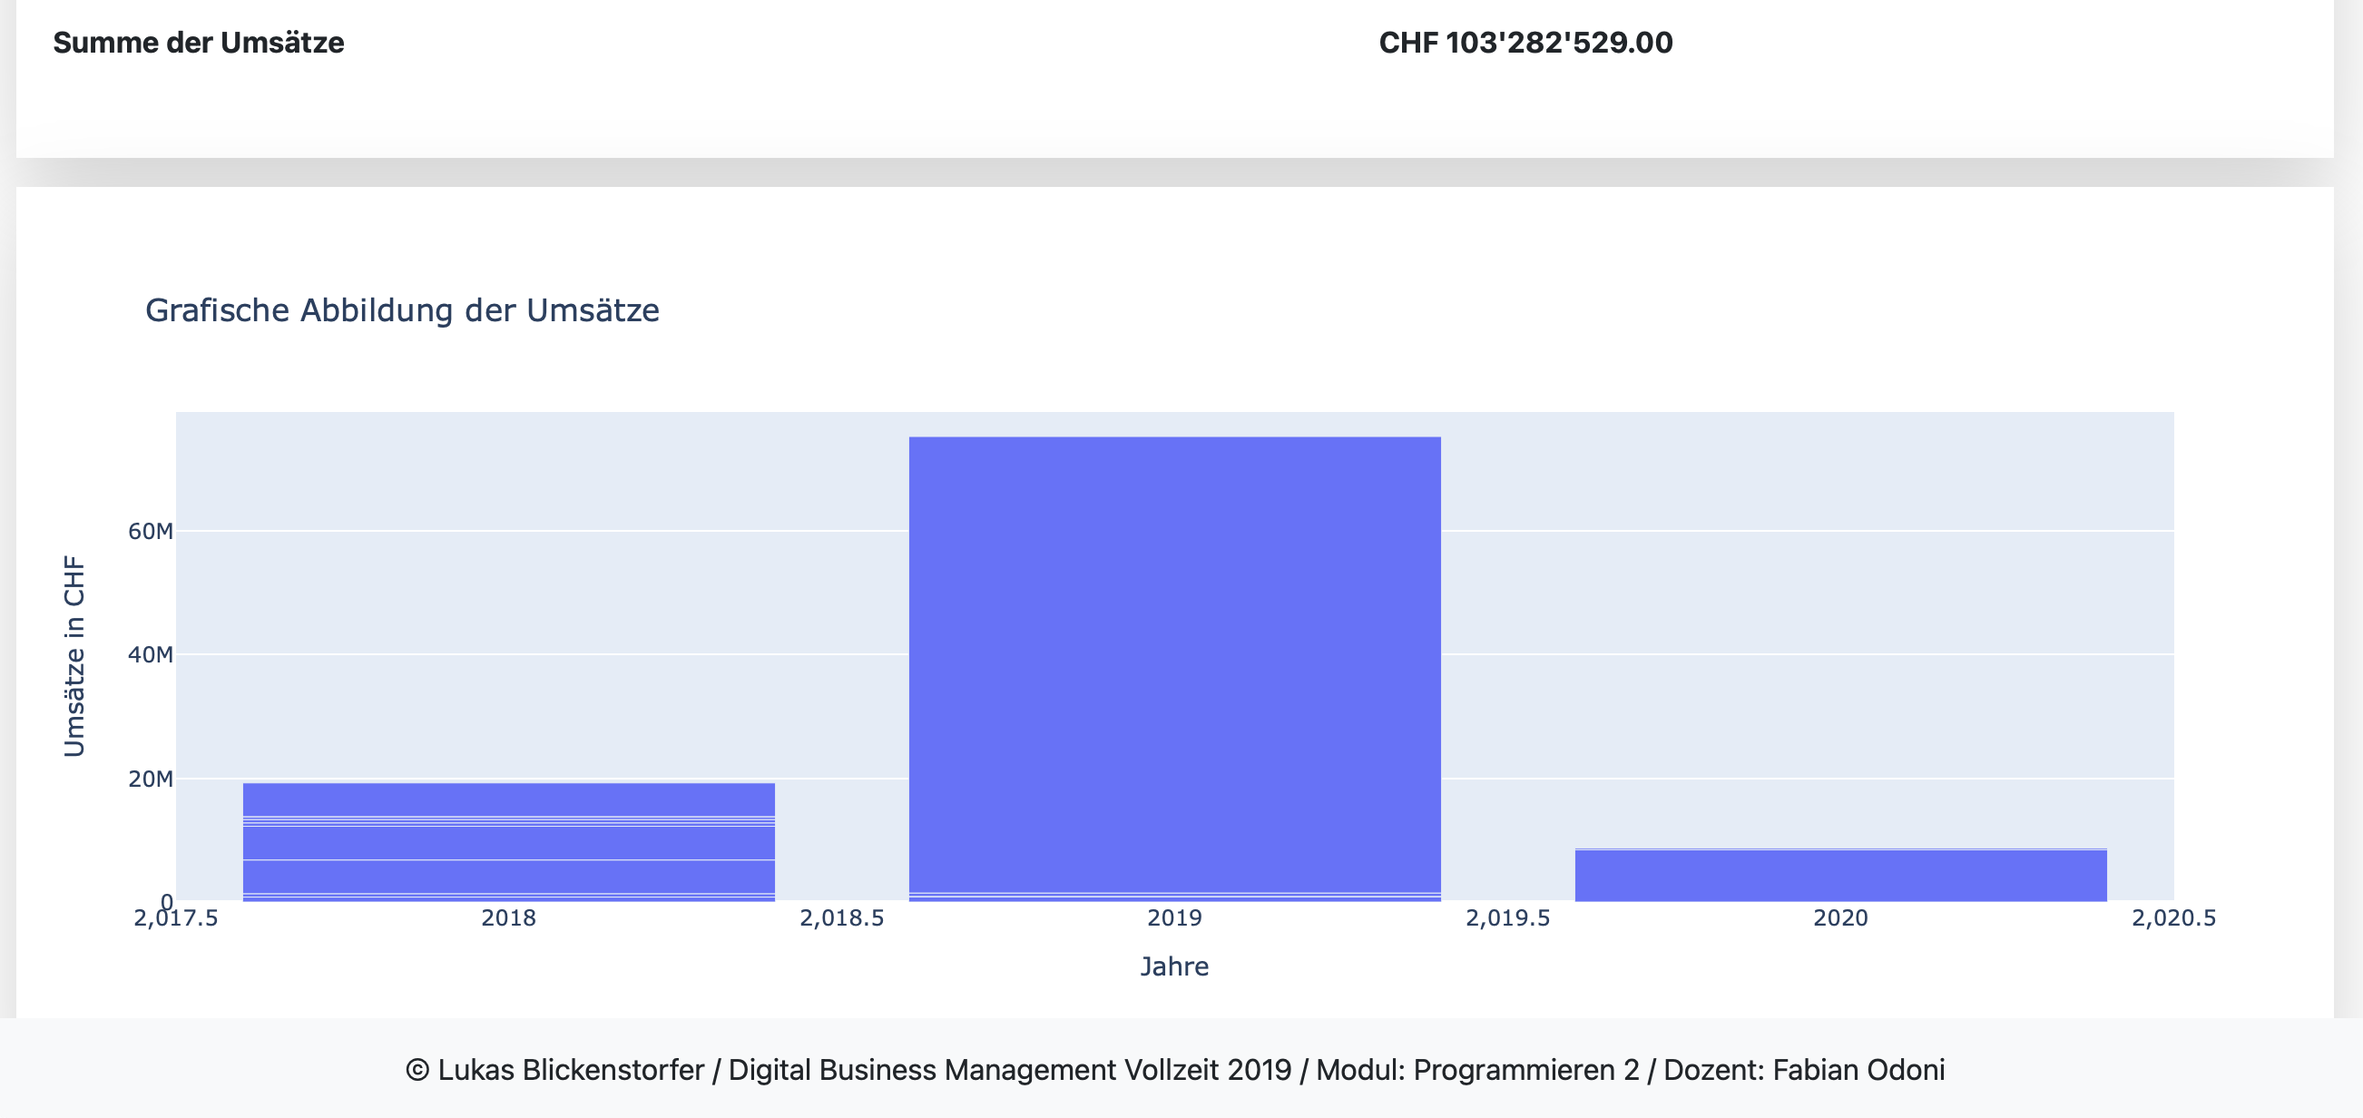
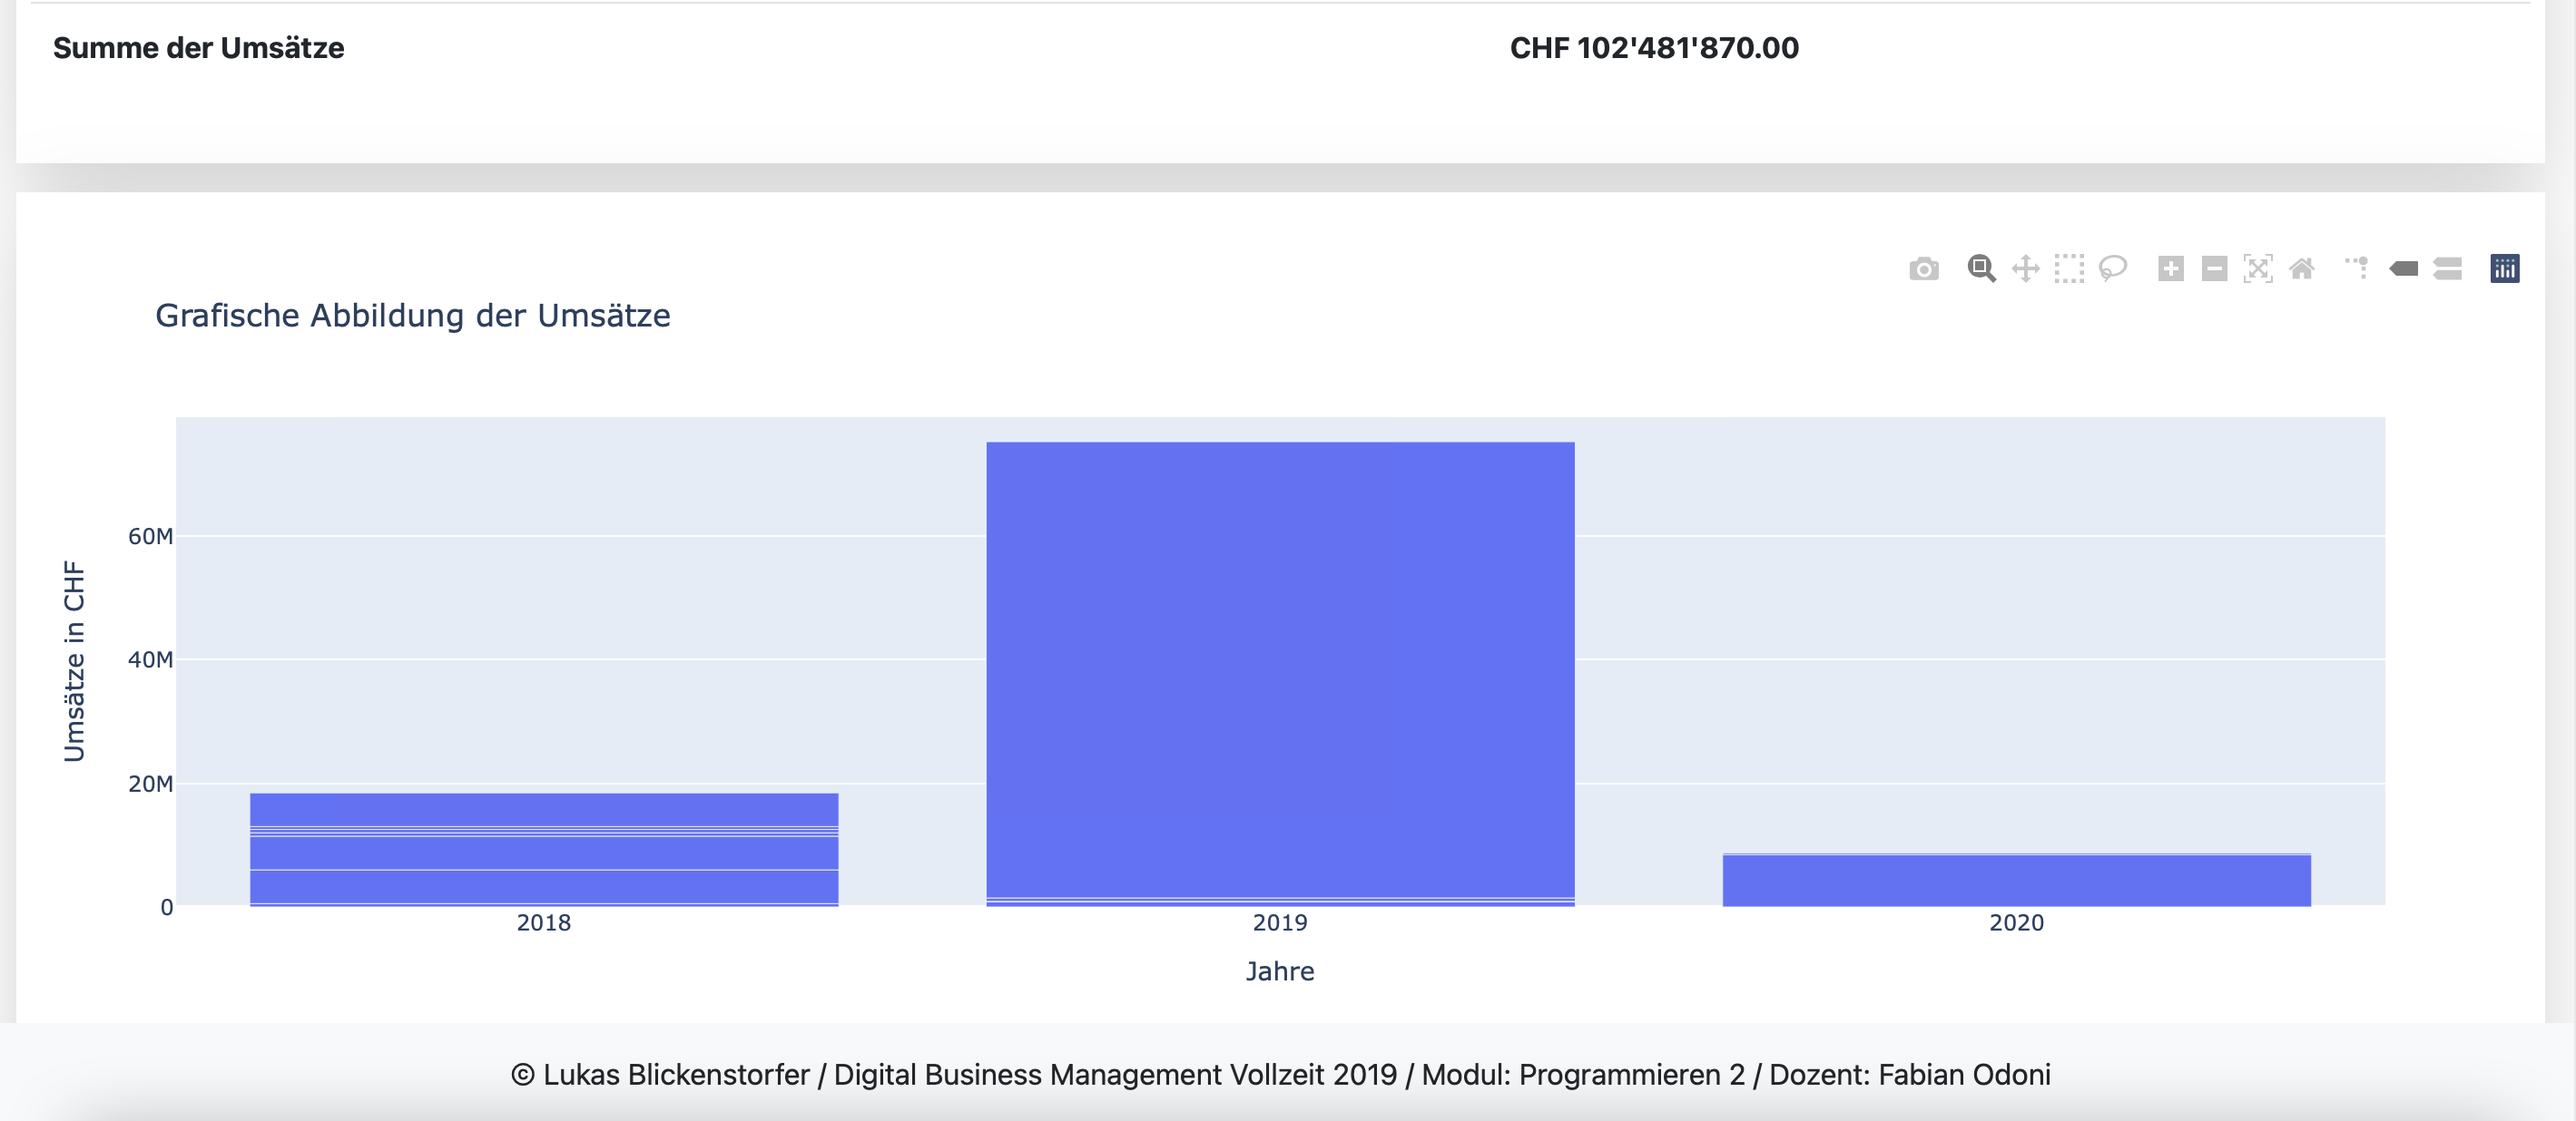
17.01.2021_2

diff --git a/main.py b/main.py
@@ -71,7 +71,7 @@ def get_revenue():
 
     # Datenvisualisierung der Umsätze (Quelle: https://plotly.com/python/bar-charts/)
     if sumlist:
-        fig = px.bar(x=yearlist, y=sumlist, title="Grafische Abbildung der Umsätze", labels=dict(x="Jahre", y="Umsätze in CHF"))
+        fig = px.bar(x=yearlist, y=sumlist, title="Grafische Abbildung der Umsätze", labels=dict(x="Jahre", y="Umsätze in CHF"), barmode='group')
     else:
         fig = px.bar(x=None, y=None, title="Grafische Abbildung der Umsätze", labels=dict(x="Jahre", y="Umsätze in CHF"))
 

diff --git a/README.md b/README.md
@@ -18,7 +18,6 @@ Das Webapp iSales soll Abhilfe schaffen und kann genutzt werden um Ihre Kunden u
 Folgende Pakete müssen noch installiert werden:
 
 - flask
-star:
     - Flask
     - flash
     - render_template
